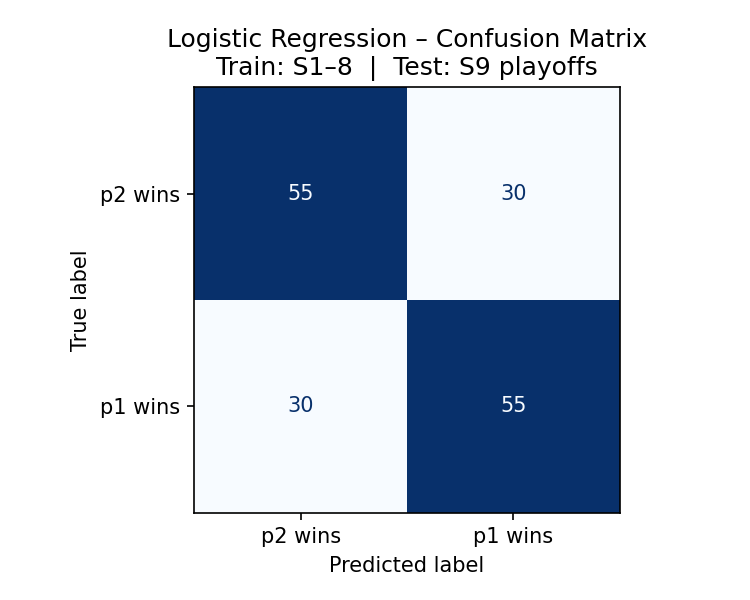
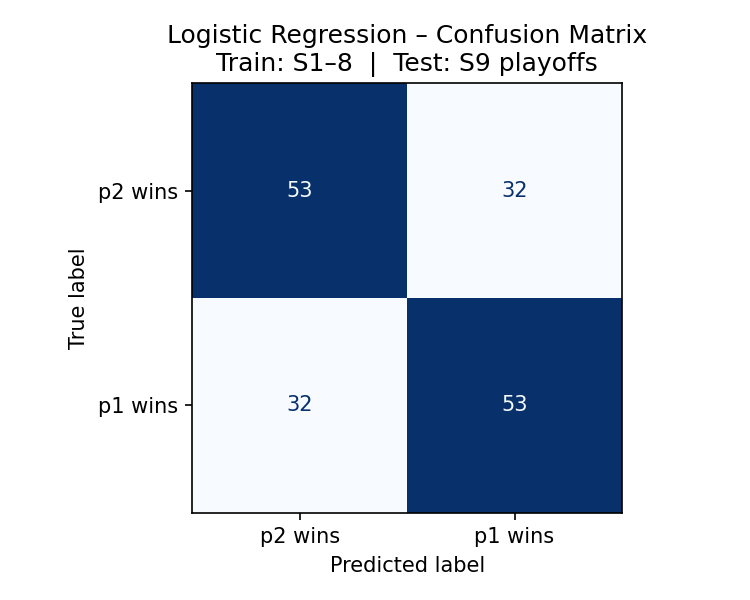
change

diff --git a/src/logistic_regression_eval.py b/src/logistic_regression_eval.py
@@ -46,6 +46,89 @@ RAW     = os.path.join(os.path.dirname(__file__), "..", "data", "raw")
 OUT_DIR = os.path.join(os.path.dirname(__file__), "..", "data", "processed")
 os.makedirs(OUT_DIR, exist_ok=True)
 
+
+# ---------------------------------------------------------------------------
+# NEW FEATURE HELPERS
+# ---------------------------------------------------------------------------
+
+def build_h2h_lookup(df: pd.DataFrame, season_filter: int) -> dict:
+    """
+    Build a head-to-head win-rate lookup from ranked match history.
+
+    Returns {(nick_a, nick_b): nick_a_win_rate} for every ordered pair that
+    appears in matches from seasons 1..season_filter.  Both directions are
+    stored so callers can do a simple lookup without knowing which ordering
+    was used in the raw data.
+    """
+    sub = df[df["season"] <= season_filter][["p1_nick", "p2_nick", "p1_won"]].dropna()
+    wins  = {}
+    total = {}
+    for row in sub.itertuples(index=False):
+        p1, p2, p1_won = row.p1_nick, row.p2_nick, row.p1_won
+        total[(p1, p2)] = total.get((p1, p2), 0) + 1
+        wins[ (p1, p2)] = wins.get( (p1, p2), 0) + int(p1_won)
+        total[(p2, p1)] = total.get((p2, p1), 0) + 1
+        wins[ (p2, p1)] = wins.get( (p2, p1), 0) + int(not p1_won)
+    return {k: wins[k] / total[k] for k in total}
+
+
+def load_lcq_by_season() -> dict:
+    """
+    Parse each season's playoffs JSON and return {season: set_of_lcq_nicks}.
+
+    Players with seedNumber >= 12 occupy the four LCQ spots.  Early seasons
+    that lack a seedNumber field default to an empty set.
+    """
+    lcq = {}
+    for s in range(1, 10):
+        path = os.path.join(RAW, f"season_{s}_playoffs.json")
+        if not os.path.exists(path):
+            lcq[s] = set()
+            continue
+        try:
+            with open(path) as f:
+                data = json.load(f)["data"]["data"]
+            lcq[s] = {
+                p["nickname"]
+                for p in data.get("players", [])
+                if p.get("seedNumber", 0) >= 12
+            }
+        except (KeyError, TypeError, json.JSONDecodeError):
+            lcq[s] = set()
+    return lcq
+
+
+def load_delta_by_season() -> dict:
+    """
+    Parse each season's playoffs JSON and return {season: {nick: delta}}.
+
+    delta = seed_rank - actual_place  (positive = player outperformed seeding).
+    seed_rank is seedNumber + 1 (0-indexed → 1-indexed).
+    """
+    deltas = {}
+    for s in range(1, 10):
+        path = os.path.join(RAW, f"season_{s}_playoffs.json")
+        if not os.path.exists(path):
+            continue
+        try:
+            with open(path) as f:
+                data = json.load(f)["data"]["data"]
+            idx_to_nick = {p["seedNumber"]: p["nickname"]
+                           for p in data.get("players", [])}
+            season_deltas = {}
+            for r in data.get("results", []):
+                idx          = r.get("player")
+                actual_place = r.get("place")
+                nick         = idx_to_nick.get(idx)
+                if nick is None or actual_place is None:
+                    continue
+                seed_rank            = idx + 1          # 0-indexed → 1-indexed
+                season_deltas[nick]  = seed_rank - actual_place
+            deltas[s] = season_deltas
+        except (KeyError, TypeError, json.JSONDecodeError):
+            continue
+    return deltas
+
 # ---------------------------------------------------------------------------
 # Ground-truth playoff results (from scraped JSON + confirmed overrides)
 # ---------------------------------------------------------------------------
@@ -88,6 +171,9 @@ FEATURE_NAMES = [
     "BestTime diff (s)",
     "ForfeitRate diff",
     "EloMomentum diff",
+    "LCQ Flag diff",
+    "Tournament Delta diff",
+    "H2H WinRate",
 ]
 
 # Playoff tier ordering (best → worst)
@@ -146,6 +232,9 @@ def build_player_features(
     playoff_results: dict,
     season_filter: int,
     pedigree_cutoff: int = None,
+    lcq_by_season: dict = None,
+    delta_by_season: dict = None,
+    lcq_season: int = None,
 ) -> pd.DataFrame:
     """
     Compute 11 per-player features using only match data up to `season_filter`.
@@ -237,19 +326,44 @@ def build_player_features(
         )
         deep_run_score = champion_count * 4 + finalist_count * 3 + top4_count * 2 + qf_count
 
+        # LCQ qualifier flag — 1 if this player entered the target playoffs via
+        # the Last-Chance Qualifier, 0 if they qualified directly.
+        # lcq_season overrides season_filter so the S9 test set can use S9 LCQ
+        # data (known before the tournament starts, so not leakage) while still
+        # restricting match stats to S8.
+        _lcq_season = lcq_season if lcq_season is not None else season_filter
+        lcq_flag = 0
+        if lcq_by_season is not None:
+            lcq_flag = 1 if nick in lcq_by_season.get(_lcq_season, set()) else 0
+
+        # Historical tournament performance delta — average of (seed_rank - actual_place)
+        # across all playoff appearances up to pedigree_cutoff.
+        # Positive = player historically outperforms their seeding.
+        avg_delta = np.nan
+        if delta_by_season is not None:
+            past = [
+                delta_by_season[s][nick]
+                for s in range(1, pedigree_cutoff + 1)
+                if s in delta_by_season and nick in delta_by_season[s]
+            ]
+            if past:
+                avg_delta = float(np.mean(past))
+
         records.append({
-            "nickname":       nick,
-            "elo":            last_elo,
-            "win_rate":       win_rate,
-            "recent_wr":      recent_wr,
-            "consistency":    consistency,
-            "avg_time_ms":    avg_time,
-            "best_time_ms":   best_time,
-            "forfeit_rate":   forfeit_rate,
-            "elo_momentum":   elo_momentum,
-            "champion_count": champion_count,
-            "finalist_count": finalist_count,
-            "deep_run_score": deep_run_score,
+            "nickname":              nick,
+            "elo":                   last_elo,
+            "win_rate":              win_rate,
+            "recent_wr":             recent_wr,
+            "consistency":           consistency,
+            "avg_time_ms":           avg_time,
+            "best_time_ms":          best_time,
+            "forfeit_rate":          forfeit_rate,
+            "elo_momentum":          elo_momentum,
+            "champion_count":        champion_count,
+            "finalist_count":        finalist_count,
+            "deep_run_score":        deep_run_score,
+            "lcq_flag":              lcq_flag,
+            "avg_tournament_delta":  avg_delta,
         })
 
     return pd.DataFrame(records)
@@ -263,15 +377,23 @@ PLAYER_FEAT_COLS = [
     "elo", "win_rate", "recent_wr", "consistency", "avg_time_ms",
     "deep_run_score", "champion_count", "finalist_count",
     "best_time_ms", "forfeit_rate", "elo_momentum",
+    "lcq_flag", "avg_tournament_delta",
 ]
 
 
-def build_matchup_vector(feat: pd.DataFrame, p1: str, p2: str) -> np.ndarray:
-    """Return the 11-dim feature diff vector (positive = p1 advantage)."""
+def build_matchup_vector(feat: pd.DataFrame, p1: str, p2: str,
+                         h2h: dict = None) -> np.ndarray:
+    """Return the 14-dim feature diff vector (positive = p1 advantage).
+
+    The three new dimensions (indices 11-13) are:
+      11 — LCQ Flag diff       (1 = p1 is LCQ qualifier, -1 = p2, 0 = same)
+      12 — Tournament Delta diff (p1 avg delta minus p2 avg delta)
+      13 — H2H WinRate          (p1 career win rate vs p2, centered at 0)
+    """
     r1 = feat[feat["nickname"] == p1]
     r2 = feat[feat["nickname"] == p2]
     if r1.empty or r2.empty:
-        return np.full(len(PLAYER_FEAT_COLS), np.nan)
+        return np.full(len(FEATURE_NAMES), np.nan)
 
     r1, r2 = r1.iloc[0], r2.iloc[0]
 
@@ -282,6 +404,21 @@ def build_matchup_vector(feat: pd.DataFrame, p1: str, p2: str) -> np.ndarray:
         avg_time_diff  = (r2["avg_time_ms"]  - r1["avg_time_ms"])  / 1000
     if not (pd.isna(r1["best_time_ms"])) and not (pd.isna(r2["best_time_ms"])):
         best_time_diff = (r2["best_time_ms"] - r1["best_time_ms"]) / 1000
+
+    # LCQ flag diff — direct subtraction (0/1 values, never NaN)
+    lcq_diff = float(r1.get("lcq_flag", 0)) - float(r2.get("lcq_flag", 0))
+
+    # Tournament delta diff — NaN-safe
+    d1 = r1.get("avg_tournament_delta", np.nan)
+    d2 = r2.get("avg_tournament_delta", np.nan)
+    delta_diff = float(d1 - d2) if not (pd.isna(d1) or pd.isna(d2)) else np.nan
+
+    # H2H win rate centered at 0 — positive means p1 has beaten p2 more often
+    h2h_val = 0.0
+    if h2h is not None:
+        wr = h2h.get((p1, p2), None)
+        if wr is not None:
+            h2h_val = wr - 0.5
 
     return np.array([
         r1["elo"]            - r2["elo"],
@@ -295,6 +432,9 @@ def build_matchup_vector(feat: pd.DataFrame, p1: str, p2: str) -> np.ndarray:
         best_time_diff,
         r1["forfeit_rate"]   - r2["forfeit_rate"],
         r1["elo_momentum"]   - r2["elo_momentum"],
+        lcq_diff,
+        delta_diff,
+        h2h_val,
     ], dtype=float)
 
 
@@ -312,11 +452,12 @@ def _expand_tier(tier_val):
 
 
 def build_pairwise_data(
-    feat_lookup: dict,  # season → DataFrame of player features
-    results: dict,      # playoff_results dict
+    feat_lookup: dict,      # season → DataFrame of player features
+    results: dict,          # playoff_results dict
     seasons: list,
     season_weights: dict,
     all_players_set: set = None,
+    h2h_by_season: dict = None,  # season → h2h lookup dict
 ):
     """
     Build cross-tier pairwise (p_better, p_worse) matchup vectors.
@@ -338,6 +479,7 @@ def build_pairwise_data(
         known  = set(feat["nickname"].dropna().values)
         weight = season_weights.get(season, 1)
         res    = results[season]
+        h2h    = h2h_by_season.get(season) if h2h_by_season else None
 
         tiers = [_expand_tier(res.get(t)) for t in TIER_ORDER]
 
@@ -348,7 +490,7 @@ def build_pairwise_data(
                     for p_w in worse_tier:
                         if p_b not in known or p_w not in known:
                             continue
-                        fv = build_matchup_vector(feat, p_b, p_w)
+                        fv = build_matchup_vector(feat, p_b, p_w, h2h=h2h)
                         elo_diff = float(fv[0])
 
                         # p_b (better tier) is the "winner" → y=1
@@ -539,6 +681,19 @@ def main():
     print(f"  {len(df)} unique matches (S1–S9)")
 
     # ------------------------------------------------------------------
+    # Load new feature data (LCQ flags, tournament deltas, H2H lookups)
+    # ------------------------------------------------------------------
+    print("\nLoading LCQ qualifiers and tournament deltas...")
+    lcq_by_season   = load_lcq_by_season()
+    delta_by_season = load_delta_by_season()
+    print(f"  LCQ players per season: { {s: len(v) for s, v in lcq_by_season.items()} }")
+
+    print("Building per-season H2H lookups (no leakage)...")
+    h2h_by_season_train = {s: build_h2h_lookup(df, s) for s in range(1, 9)}
+    h2h_s9_test         = build_h2h_lookup(df, 8)   # S9 test uses only data through S8
+    print("  H2H lookups built for S1–S8 training and S9 test hold-out")
+
+    # ------------------------------------------------------------------
     # Collect all player names that appear in any S1-9 playoff
     # ------------------------------------------------------------------
     all_playoff_players = set()
@@ -563,6 +718,8 @@ def main():
             players=list(all_playoff_players),
             playoff_results=playoff_results,
             season_filter=s,
+            lcq_by_season=lcq_by_season,
+            delta_by_season=delta_by_season,
         )
         n_known = feat_by_season_train[s]["nickname"].notna().sum()
         print(f"  S{s}: {n_known} players with features")
@@ -582,6 +739,9 @@ def main():
         playoff_results=playoff_results,
         season_filter=8,        # NO Season 9 match data → strict hold-out
         pedigree_cutoff=8,      # S8 results ARE known before S9 playoffs
+        lcq_by_season=lcq_by_season,
+        delta_by_season=delta_by_season,
+        lcq_season=9,           # S9 bracket seeding is public before the tournament
     )
     print(f"  S9 test players: {len(feat_s9_test)}")
     print(f"\n  S9 player snapshot (sorted by Elo):")
@@ -604,6 +764,7 @@ def main():
         results=playoff_results,
         seasons=list(range(1, 9)),
         season_weights=SEASON_WEIGHTS,
+        h2h_by_season=h2h_by_season_train,
     )
     print(f"  Training samples : {len(X_train)}")
     print(f"  Class balance    : {y_train.mean():.2f}")
@@ -624,6 +785,7 @@ def main():
         results={9: playoff_results[9]},
         seasons=[9],
         season_weights={9: 1},
+        h2h_by_season={9: h2h_s9_test},
     )
     print(f"  Test samples : {len(X_test)}")
     print(f"  Class balance: {y_test.mean():.2f}")

diff --git a/src/predict_s10.py b/src/predict_s10.py
@@ -372,8 +372,11 @@ def build_player_outcome_data(feat_by_season: dict):
     return np.array(X, dtype=float), np.array(y), names
 
 
-def train_lda(feat_by_season: dict):
-    X, y, names = build_player_outcome_data(feat_by_season)
+def train_lda(feat_by_season: dict, season_filter: int = None):
+    """Train LDA on seasons up to season_filter (all seasons if None)."""
+    filtered = {s: v for s, v in feat_by_season.items()
+                if season_filter is None or s <= season_filter}
+    X, y, names = build_player_outcome_data(filtered)
     if len(X) == 0:
         return None, None, None, None
 
@@ -384,11 +387,12 @@ def train_lda(feat_by_season: dict):
     ])
     pipe.fit(X, y)
 
+    train_label = f"S1–S{season_filter}" if season_filter else "all seasons"
     acc = accuracy_score(y, pipe.predict(X))
-    print(f"\n-- LDA (outcome classification) --")
+    print(f"\n-- LDA (outcome classification, trained on {train_label}) --")
     print(f"  Training samples : {len(X)}")
     print(f"  Classes          : {sorted(set(y))}")
-    print(f"  Training accuracy: {acc:.1%}  (in-sample; limited data)")
+    print(f"  Training accuracy: {acc:.1%}  (in-sample)")
     return pipe, X, y, names
 
 
@@ -525,8 +529,41 @@ def main():
 
     upset_detection_rate(X_test, y_test, y_pred)
 
-    # --- LDA ---
-    lda_pipe, X_lda, y_lda, lda_names = train_lda(feat_by_season)
+    # --- LDA: train on S1–S8 only (strict hold-out) ---
+    lda_pipe, X_lda, y_lda, lda_names = train_lda(feat_by_season, season_filter=8)
+
+    # --- LDA S9 hold-out evaluation ---
+    if lda_pipe is not None:
+        print("\n-- LDA Hold-Out Evaluation (S9) --")
+        s9_res     = PLAYOFF_RESULTS.get(9, {})
+        tier_order = ["champion", "finalist", "top4", "qf_exit", "r1_exit"]
+        feat_s9    = feat_by_season.get(8)   # features built from data through S8
+        if feat_s9 is not None:
+            known = set(feat_s9["nickname"].values)
+            y_true_s9, y_pred_s9 = [], []
+            for tier in tier_order:
+                label = OUTCOME_LABEL[tier]
+                val   = s9_res.get(tier)
+                tier_players = [val] if isinstance(val, str) else (list(val) if val else [])
+                for p in tier_players:
+                    if p not in known:
+                        continue
+                    row = feat_s9[feat_s9["nickname"] == p].iloc[0]
+                    fv  = np.array(
+                        [row[c] if row[c] is not None else np.nan for c in PLAYER_FEAT_COLS],
+                        dtype=float,
+                    ).reshape(1, -1)
+                    y_true_s9.append(label)
+                    y_pred_s9.append(lda_pipe.predict(fv)[0])
+            if y_true_s9:
+                s9_acc = accuracy_score(y_true_s9, y_pred_s9)
+                print(f"  Players evaluated : {len(y_true_s9)}")
+                print(f"  S9 hold-out accuracy : {s9_acc:.1%}")
+                print(classification_report(
+                    y_true_s9, y_pred_s9,
+                    target_names=[OUTCOME_NAME[c] for c in sorted(set(y_true_s9))],
+                    zero_division=0,
+                ))
 
     # --- Season 10 player features ---
     print("\nBuilding Season 10 player features...")
